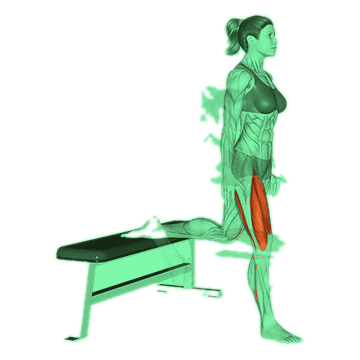
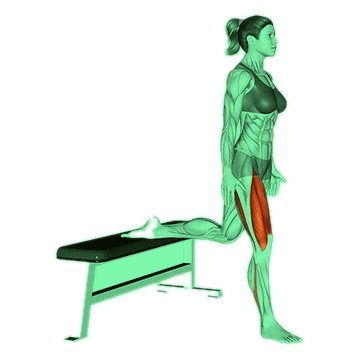
fix: restore frame 1 thumbnails, keep 2px card padding, louder timer beep
Revert generate-static-frames.py to the 1st frame — the 2nd frame's
motion blur looked off — and regenerate all thumbnails. Restore 2px of
vertical padding on .picker-item for a touch of breathing room around
the enlarged exercise image. Boost the 30s timer beep's peak gain
(0.2 -> 0.9) and duration, since it was barely audible even at max
device volume.

diff --git a/index.html b/index.html
@@ -923,7 +923,7 @@
     background: var(--bg-card);
     border: 1px solid var(--line);
     border-radius: 14px;
-    padding: 0 16px;
+    padding: 2px 16px;
     display: flex;
     gap: 12px;
     justify-content: space-between;
@@ -2605,10 +2605,10 @@ function playTimerBeep() {
     gain.connect(timerAudioCtx.destination);
     const start = timerAudioCtx.currentTime;
     gain.gain.setValueAtTime(0, start);
-    gain.gain.linearRampToValueAtTime(0.2, start + 0.01);
-    gain.gain.exponentialRampToValueAtTime(0.001, start + 0.18);
+    gain.gain.linearRampToValueAtTime(0.9, start + 0.01);
+    gain.gain.exponentialRampToValueAtTime(0.001, start + 0.3);
     osc.start(start);
-    osc.stop(start + 0.2);
+    osc.stop(start + 0.32);
   } catch (e) { /* audio non disponible, tant pis */ }
 }
 

diff --git a/generate-static-frames.py b/generate-static-frames.py
@@ -1,8 +1,6 @@
-"""Extrait la 2e frame de chaque PNG anime du dossier exercices/
+"""Extrait la 1ere frame de chaque PNG anime du dossier exercices/
 pour generer la version statique correspondante (nom-static.png),
 utilisee sur l'accueil (renderExercisePicto, niveau 1 du repli).
-La 2e frame est utilisee plutot que la 1ere car le mouvement y est
-generalement plus representatif de l'exercice.
 
 Usage: python generate-static-frames.py
 """
@@ -26,8 +24,7 @@ def main():
     for src in sources:
         dest = src.with_name(f"{src.stem}-static.png")
         with Image.open(src) as im:
-            frame_index = 1 if getattr(im, "n_frames", 1) > 1 else 0
-            im.seek(frame_index)
+            im.seek(0)
             frame = im.convert("RGBA")
             frame.save(dest)
         print(f"{src.name} -> {dest.name}")
